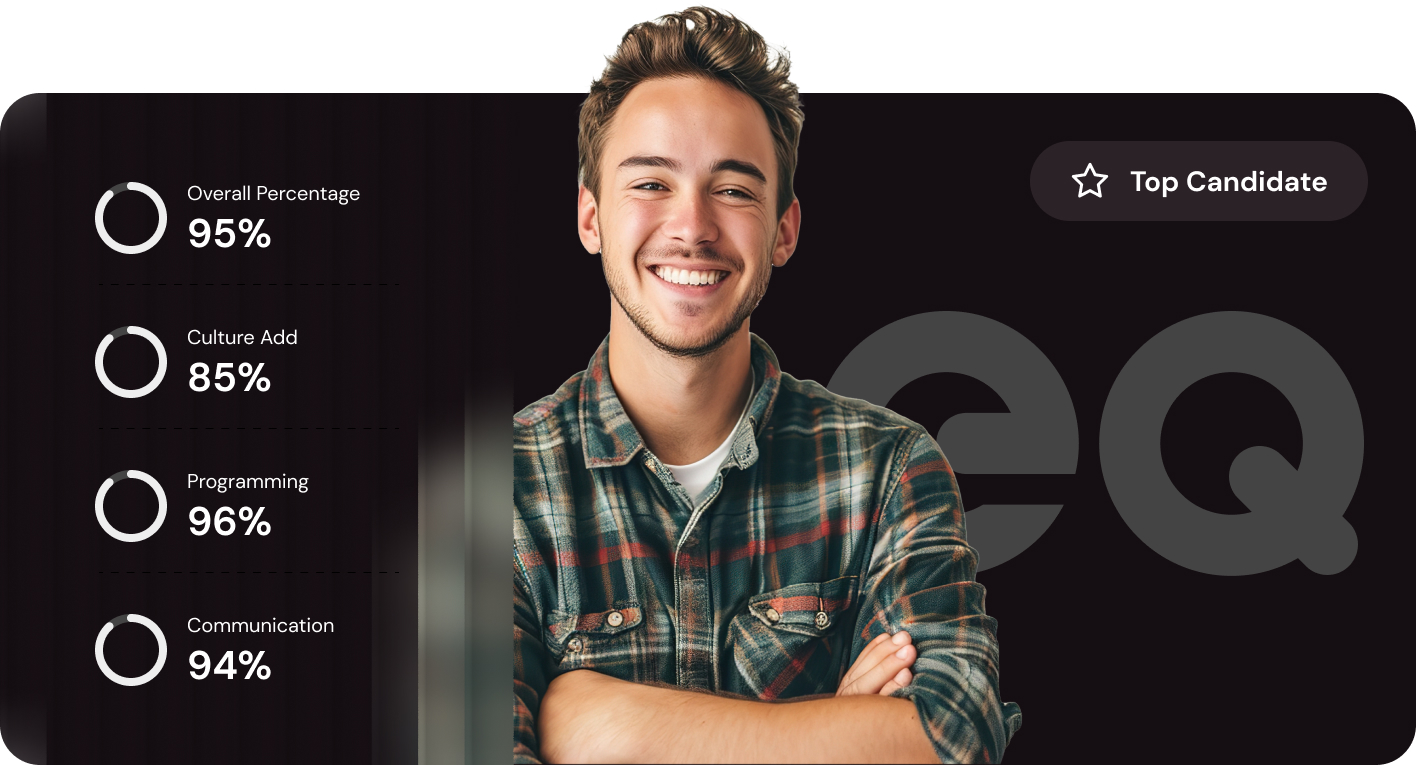
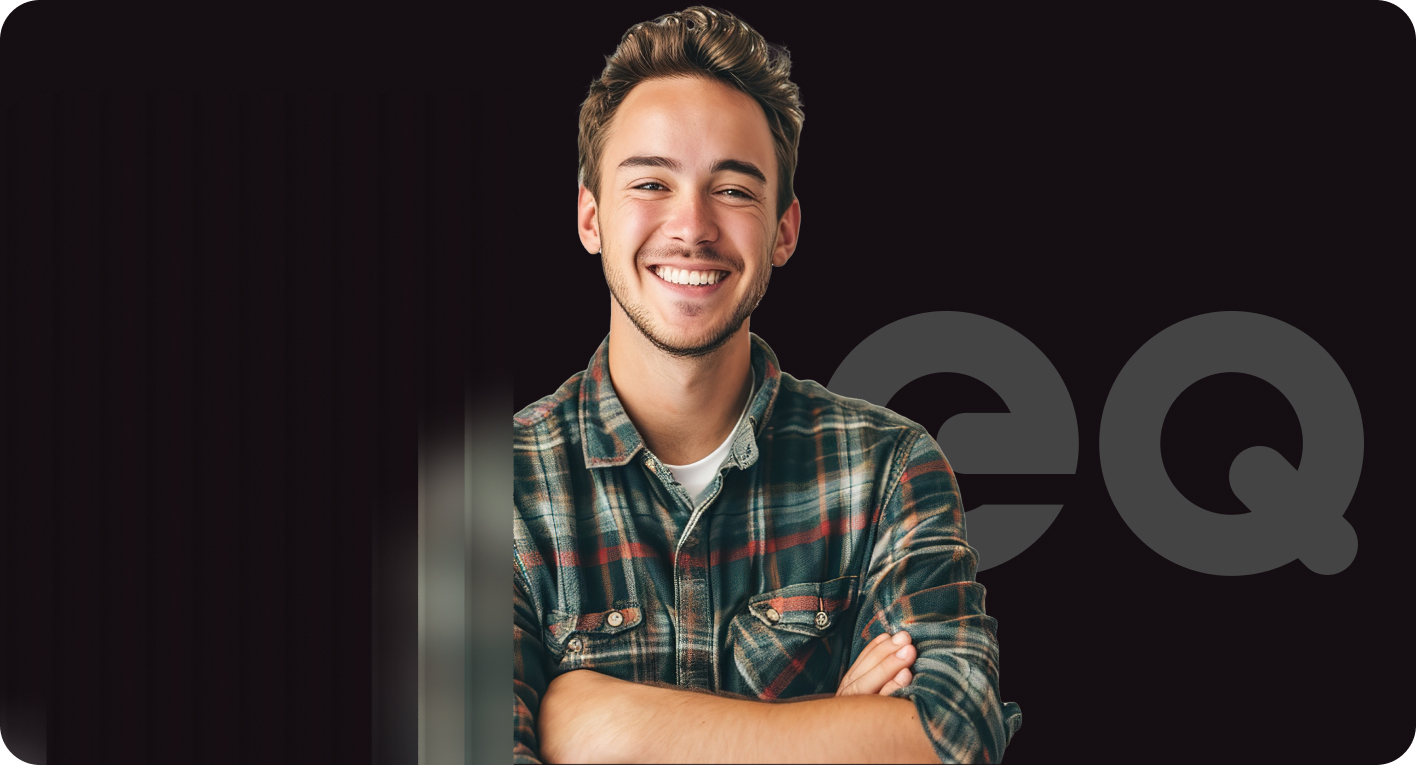
conflicts fixedtop candidate percentage animation

diff --git a/src/components/PageComponents/SolutionsPage/TopCandidate/TopCandidate.js b/src/components/PageComponents/SolutionsPage/TopCandidate/TopCandidate.js
@@ -1,16 +1,149 @@
-import React from 'react';
+import React, { useLayoutEffect } from 'react';
 import './TopCandidate.scss';
 import Button from '../../../UIComponents/Buttons/Buttons';
 import TopCandidateImg from '../../../../assets/images/solutions/top-candidate.jpg';
+import TopCandidateStarImg from '../../../../assets/images/solutions/top-candidate-star.png';
 import { Row, Col } from 'antd';
+import gsap from "gsap";
+import { ScrollTrigger } from "gsap/ScrollTrigger";
+gsap.registerPlugin(ScrollTrigger);
 
-const TopCandidate = () => {
+const TopCandidate = (props) => {
+    const { items } = props;
+    let mm = gsap.matchMedia();
+
+    useLayoutEffect(() => {
+        let cty = gsap.context(() => {
+            ScrollTrigger.create({
+                trigger: ".top-candidate-section",
+                // markers: true,
+                id: "top-candidate",
+                scrub: false,
+                start: "top",
+                end: "10 top",
+                once: true,
+                onEnter: () => {
+                    // mm.add("(min-width: 1200px)", () => {
+                        gsap.to(
+                            ".star-animation",
+                            {   
+                                opacity: 1,
+                                transform: 'translateY(0)',
+                                duration: 1.2,
+                            },
+                        );
+                        gsap.to(
+                            ".progress-1",
+                            {
+                                background:
+                                    'radial-gradient(closest-side, #150E12 79%, transparent 80% 100%), conic-gradient(rgb(255, 255, 255) 95%, #848484ad 0)',
+                                duration: 1.2,
+                            },
+                        );
+                        gsap.to(
+                            ".progress-2",
+                            {
+                                background:
+                                    'radial-gradient(closest-side, #150E12 79%, transparent 80% 100%), conic-gradient(rgb(255, 255, 255) 85%, #848484ad 0)',
+                                duration: 1.2,
+                            },
+                        );
+                        gsap.to(
+                            ".progress-3",
+                            {
+                                background:
+                                    'radial-gradient(closest-side, #150E12 79%, transparent 80% 100%), conic-gradient(rgb(255, 255, 255) 96%, #848484ad 0)',
+                                duration: 1.2,
+                            },
+                        );
+                        gsap.to(
+                            ".progress-4",
+                            {
+                                background:
+                                    'radial-gradient(closest-side, #150E12 79%, transparent 80% 100%), conic-gradient(rgb(255, 255, 255) 94%, #848484ad 0)',
+                                duration: 1.2,
+                            },
+                        );
+
+                        function updateNumber(currentNumber, className) {
+                            const numberElement = document.querySelector(`.${className}`);
+                            numberElement.textContent = `${currentNumber}%`;
+                        }
+
+                        function animateNumbers(start, end, duration, elementToUpdate) {
+                            const range = end - start;
+                            const stepTime = Math.abs(Math.floor(duration / range));
+                            let currentNumber = start;
+
+                            const interval = setInterval(() => {
+                                updateNumber(currentNumber, elementToUpdate);
+                                if (currentNumber >= end) {
+                                    clearInterval(interval);
+                                } else {
+                                    currentNumber++;
+                                }
+                            }, stepTime);
+                        }
+
+                        items.forEach(({ id, to }) => {
+                            animateNumbers(0, to, 1000, id);
+                        });
+                    // });
+                },
+            });
+        });
+        return () => cty.revert();
+    });
+
     return (
         <section className='top-candidate-section section-padding-y z-index-2 position-relative'>
             <div className='container'>
                 <Row className='tc-img-wrapper'>
                     <Col span={24}>
-                        <img className='w-100 h-100' src={TopCandidateImg} alt='Top Candidate' />
+                        <div className='position-relative w-100 h-100'>
+                            <img className='w-100 h-100 candidate-banner-img' src={TopCandidateImg} alt='Top Candidate' />
+                            <div className='star-candidateImg-wrapper star-animation'>
+                                <img className='w-100 h-100' src={TopCandidateStarImg} alt='Top Candidate' />
+                            </div>
+                            <div className='top-candidate-section__progress-container'>
+                                <div className='progressWrapper'>
+                                    <div className="progress-bar progress-1">
+                                        <progress id="progress-bar" min="0" max="100" value="20"></progress>
+                                    </div>
+                                    <div className='progressPercentage-wrapper'>
+                                        <p className='pText subtitle-1 text-white'>Overall Percentage</p>
+                                        <p className='pNum percentageNum-1 h3 text-white'>0</p>
+                                    </div>
+                                </div>
+                                <div className='progressWrapper'>
+                                    <div className="progress-bar progress-2">
+                                        <progress id="progress-bar" min="0" max="100" value="20"></progress>
+                                    </div>
+                                    <div className='progressPercentage-wrapper'>
+                                        <p className='pText subtitle-1 text-white'>Culture Add</p>
+                                        <p className='pNum percentageNum-2 h3 text-white'>0</p>
+                                    </div>
+                                </div>
+                                <div className='progressWrapper'>
+                                    <div className="progress-bar progress-3">
+                                        <progress id="progress-bar" min="0" max="100" value="20"></progress>
+                                    </div>
+                                    <div className='progressPercentage-wrapper'>
+                                        <p className='pText subtitle-1 text-white'>Programming</p>
+                                        <p className='pNum percentageNum-3 h3 text-white'>0</p>
+                                    </div>
+                                </div>
+                                <div className='progressWrapper'>
+                                    <div className="progress-bar progress-4">
+                                        <progress id="progress-bar" min="0" max="100" value="20"></progress>
+                                    </div>
+                                    <div className='progressPercentage-wrapper'>
+                                        <p className='pText subtitle-1 text-white'>Communication</p>
+                                        <p className='pNum percentageNum-4 h3 text-white'>0</p>
+                                    </div>
+                                </div>
+                            </div>
+                        </div>
                     </Col>
                 </Row>
                 <div className='top-candidate-desc flex-all-center w-100 mt-80'>

diff --git a/src/components/PageComponents/SolutionsPage/TopCandidate/TopCandidate.scss b/src/components/PageComponents/SolutionsPage/TopCandidate/TopCandidate.scss
@@ -2,8 +2,47 @@
     background-color: #fff;
 
     .tc-img-wrapper {
-        max-height: 764px;
-        border-radius: 30px;
+        .candidate-banner-img {
+            object-fit: cover;
+            height: 100%;
+            border-radius: 10px;
+
+            @media (min-width: 768px) {
+                height: 381px;
+                border-radius: 20px;
+            }
+            @media (min-width: 1200px) {
+                height: 765px;
+                border-radius: 40px;
+            }
+        }
+        .star-candidateImg-wrapper{
+            opacity: 0;
+            transform: translateY(30px);
+            position: absolute;
+            top: 12px;
+            right: 12px;
+            width: 80px;
+            height: 19px;
+            @media (min-width: 768px) {
+                width: 168px;
+                height: 40px;
+                top: 24px;
+                right: 24px;
+            }
+            @media (min-width: 1200px) {
+                top: 24px;
+                right: 24px;
+                width: 338px;
+                height: 80px;
+            }
+            @media (min-width: 1440px) {
+                width: 338px;
+                height: 80px;
+                top: 48px;
+                right: 48px;
+            }
+    }
     }
 
     .tc-description {
@@ -15,9 +54,81 @@
         p {
             color: #444;
             max-width: 100%;
+
             @media (min-width: 768px) {
                 max-width: 627px;
             }
         }
+    }
+
+    &__progress-container {
+        position: absolute;
+        top: 50%;
+        transform: translateY(-50%);
+        left: 22px;
+        display: flex;
+        flex-direction: column;
+        justify-content: center;
+        padding: 20px 0;
+        height: 80%;
+        @media (max-width: 767px) {
+            justify-content: space-between;
+        }  
+        @media (min-width: 768px) {
+            padding: 40px 0;
+            left: 50px;
+            gap: 34px;
+        }
+        @media (min-width: 1200px) {
+            padding: 80px 0;
+            left: 93px;
+            gap: 64px;
+        }
+        .progressWrapper{
+            display: flex;
+            align-items: center;
+        }
+        .pText{
+            @media (max-width: 1199px) {
+                font-size: 10px;
+            }  
+            @media (max-width: 767px) {
+                font-size: 5px;
+            }      
+        }
+        .pNum {
+            @media (max-width: 1199px) {
+                font-size: 20px;
+            }
+            @media (max-width: 767px) {
+                font-size: 10px;
+            }
+        }
+        .progress-bar {
+            width: 16px;
+            height: 16px;
+            margin-right: 6px;
+            @media (min-width: 768px) {
+                width: 32px;
+                height: 32px;
+                margin-right: 12px;
+            }
+            @media (min-width: 1200px) {
+                width: 64px;
+                height: 64px;
+                margin-right: 24px;
+            }
+            border-radius: 50%;
+            background:
+                radial-gradient(closest-side, #150E12 79%, transparent 80% 100%),
+                conic-gradient(rgb(255, 255, 255) 0, #848484ad 0);
+        }
+
+        progress {
+            visibility: hidden;
+            width: 0;
+            height: 0;
+        }
+        .progressPercentage-wrapper {}
     }
 }

diff --git a/src/pages/SolutionsPage.js b/src/pages/SolutionsPage.js
@@ -2,13 +2,14 @@ import React, { Fragment } from "react";
 import SaasAog from "../components/PageComponents/SolutionsPage/SaasAog";
 import TopCandidate from "../components/PageComponents/SolutionsPage/TopCandidate";
 import Hrm from "../components/PageComponents/SolutionsPage/Hrm/Hrm";
-import { HRM_TILE_ITEMS } from "./Data";
+import { HRM_TILE_ITEMS, TOP_CANDIDATE_PERCENTAGE_ANIMATION_ITEMS } from "./Data";
+import LoaderComponent from "../components/UIComponents/Loader/Loader";
 
 const SolutionsPage = () => {
   return (
     <Fragment>
       <SaasAog />
-      <TopCandidate />
+      <TopCandidate items={TOP_CANDIDATE_PERCENTAGE_ANIMATION_ITEMS}/>
       <Hrm items={HRM_TILE_ITEMS} />
     </Fragment>
   );

diff --git a/src/pages/Data.js b/src/pages/Data.js
@@ -388,3 +388,22 @@ export const CANDIDATES_SLIDER_ITEMS = [
     imgUrl: CandidatesSliderImg3,
   },
 ];
+
+export const TOP_CANDIDATE_PERCENTAGE_ANIMATION_ITEMS = [
+  {
+    id: 'percentageNum-1',
+    to: 95
+  },
+  {
+    id: 'percentageNum-2',
+    to: 85
+  },
+  {
+    id: 'percentageNum-3',
+    to: 96
+  },
+  {
+    id: 'percentageNum-4',
+    to: 94
+  },
+]

diff --git a/src/components/PageComponents/SolutionsPage/SaasAog/SaasAog.scss b/src/components/PageComponents/SolutionsPage/SaasAog/SaasAog.scss
@@ -19,8 +19,7 @@
   }
 
   .img-wrapper {
-    max-height: 688px;
-
+    max-height: 672px;
     img {
       object-fit: cover;
       width: 100%;
